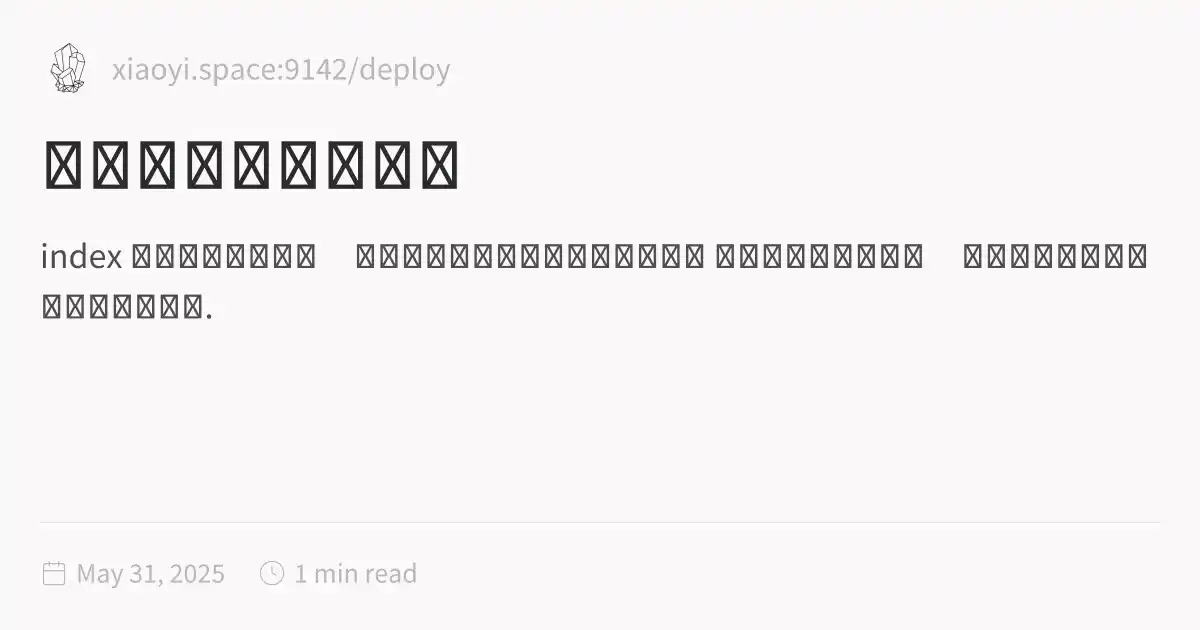
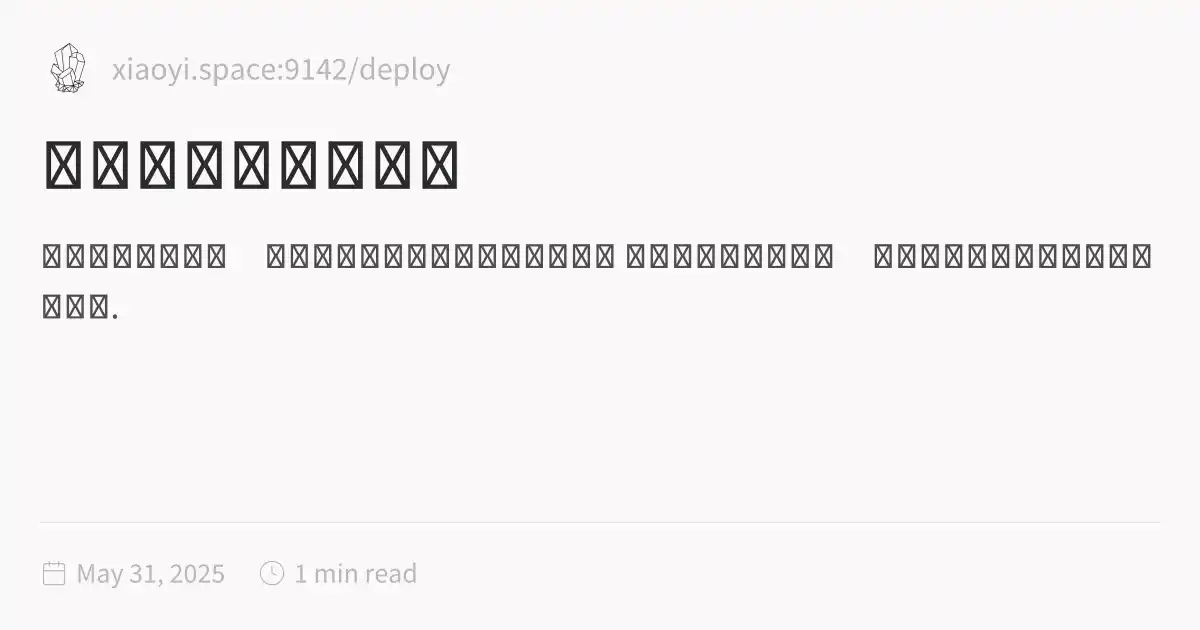
feature:remove useless link

Changed region(s): [[0.0308, 0.3619, 0.9558, 0.4222], [0.0925, 0.4524, 0.185, 0.5127]]

diff --git a/deploy/为什么搭建这个博客.html b/deploy/为什么搭建这个博客.html
@@ -1,5 +1,5 @@
 <!DOCTYPE html>
-<html lang="en"><head><title>为什么搭建这个博客</title><meta charset="utf-8"/><link rel="preconnect" href="https://fonts.googleapis.com"/><link rel="preconnect" href="https://fonts.gstatic.com"/><link rel="stylesheet" href="https://fonts.googleapis.com/css2?family=Schibsted Grotesk:wght@400;700&amp;family=Source Sans Pro:ital,wght@0,400;0,600;1,400;1,600&amp;family=IBM Plex Mono:wght@400;600&amp;display=swap"/><link rel="preconnect" href="https://cdnjs.cloudflare.com" crossorigin="anonymous"/><meta name="viewport" content="width=device-width, initial-scale=1.0"/><meta name="og:site_name" content="xiaoyili.space"/><meta property="og:title" content="为什么搭建这个博客"/><meta property="og:type" content="website"/><meta name="twitter:card" content="summary_large_image"/><meta name="twitter:title" content="为什么搭建这个博客"/><meta name="twitter:description" content="index 一种一时间的冲动，想把自己的经历、感悟分享出去。 让这些文字变成一种，「可能有一天被人看到的状态」。."/><meta property="og:description" content="index 一种一时间的冲动，想把自己的经历、感悟分享出去。 让这些文字变成一种，「可能有一天被人看到的状态」。."/><meta property="og:image:alt" content="index 一种一时间的冲动，想把自己的经历、感悟分享出去。 让这些文字变成一种，「可能有一天被人看到的状态」。."/><meta property="twitter:domain" content="xiaoyi.space:9142/deploy"/><meta property="og:url" content="https://xiaoyi.space:9142/deploy/为什么搭建这个博客"/><meta property="twitter:url" content="https://xiaoyi.space:9142/deploy/为什么搭建这个博客"/><link rel="icon" href="./static/icon.png"/><meta name="description" content="index 一种一时间的冲动，想把自己的经历、感悟分享出去。 让这些文字变成一种，「可能有一天被人看到的状态」。."/><meta name="generator" content="Quartz"/><link href="./index.css" rel="stylesheet" type="text/css" spa-preserve/><style>.expand-button {
+<html lang="en"><head><title>为什么搭建这个博客</title><meta charset="utf-8"/><link rel="preconnect" href="https://fonts.googleapis.com"/><link rel="preconnect" href="https://fonts.gstatic.com"/><link rel="stylesheet" href="https://fonts.googleapis.com/css2?family=Schibsted Grotesk:wght@400;700&amp;family=Source Sans Pro:ital,wght@0,400;0,600;1,400;1,600&amp;family=IBM Plex Mono:wght@400;600&amp;display=swap"/><link rel="preconnect" href="https://cdnjs.cloudflare.com" crossorigin="anonymous"/><meta name="viewport" content="width=device-width, initial-scale=1.0"/><meta name="og:site_name" content="xiaoyili.space"/><meta property="og:title" content="为什么搭建这个博客"/><meta property="og:type" content="website"/><meta name="twitter:card" content="summary_large_image"/><meta name="twitter:title" content="为什么搭建这个博客"/><meta name="twitter:description" content="一种一时间的冲动，想把自己的经历、感悟分享出去。 让这些文字变成一种，「可能有一天被人看到的状态」。."/><meta property="og:description" content="一种一时间的冲动，想把自己的经历、感悟分享出去。 让这些文字变成一种，「可能有一天被人看到的状态」。."/><meta property="og:image:alt" content="一种一时间的冲动，想把自己的经历、感悟分享出去。 让这些文字变成一种，「可能有一天被人看到的状态」。."/><meta property="twitter:domain" content="xiaoyi.space:9142/deploy"/><meta property="og:url" content="https://xiaoyi.space:9142/deploy/为什么搭建这个博客"/><meta property="twitter:url" content="https://xiaoyi.space:9142/deploy/为什么搭建这个博客"/><link rel="icon" href="./static/icon.png"/><meta name="description" content="一种一时间的冲动，想把自己的经历、感悟分享出去。 让这些文字变成一种，「可能有一天被人看到的状态」。."/><meta name="generator" content="Quartz"/><link href="./index.css" rel="stylesheet" type="text/css" spa-preserve/><style>.expand-button {
   position: absolute;
   display: flex;
   float: right;
@@ -116,8 +116,7 @@ pre:hover > .expand-button {
   padding: 0 12px;
   font-size: 14px;
 }
[1 lines of base64/hex data omitted]
-<p>一种一时间的冲动，想把自己的经历、感悟分享出去。
[1 lines of base64/hex data omitted]
 让这些文字变成一种，「可能有一天被人看到的状态」。</p></article><hr/><div class="page-footer"></div></div><div class="right sidebar"><div class="graph"><h3>Graph View</h3><div class="graph-outer"><div class="graph-container" data-cfg="{&quot;drag&quot;:true,&quot;zoom&quot;:true,&quot;depth&quot;:1,&quot;scale&quot;:1.1,&quot;repelForce&quot;:0.5,&quot;centerForce&quot;:0.3,&quot;linkDistance&quot;:30,&quot;fontSize&quot;:0.6,&quot;opacityScale&quot;:1,&quot;showTags&quot;:true,&quot;removeTags&quot;:[],&quot;focusOnHover&quot;:false,&quot;enableRadial&quot;:false}"></div><button class="global-graph-icon" aria-label="Global Graph"><svg version="1.1" xmlns="http://www.w3.org/2000/svg" xmlns:xlink="http://www.w3.org/1999/xlink" x="0px" y="0px" viewBox="0 0 55 55" fill="currentColor" xml:space="preserve"><path d="M49,0c-3.309,0-6,2.691-6,6c0,1.035,0.263,2.009,0.726,2.86l-9.829,9.829C32.542,17.634,30.846,17,29,17
                 s-3.542,0.634-4.898,1.688l-7.669-7.669C16.785,10.424,17,9.74,17,9c0-2.206-1.794-4-4-4S9,6.794,9,9s1.794,4,4,4
                 c0.74,0,1.424-0.215,2.019-0.567l7.669,7.669C21.634,21.458,21,23.154,21,25s0.634,3.542,1.688,4.897L10.024,42.562
